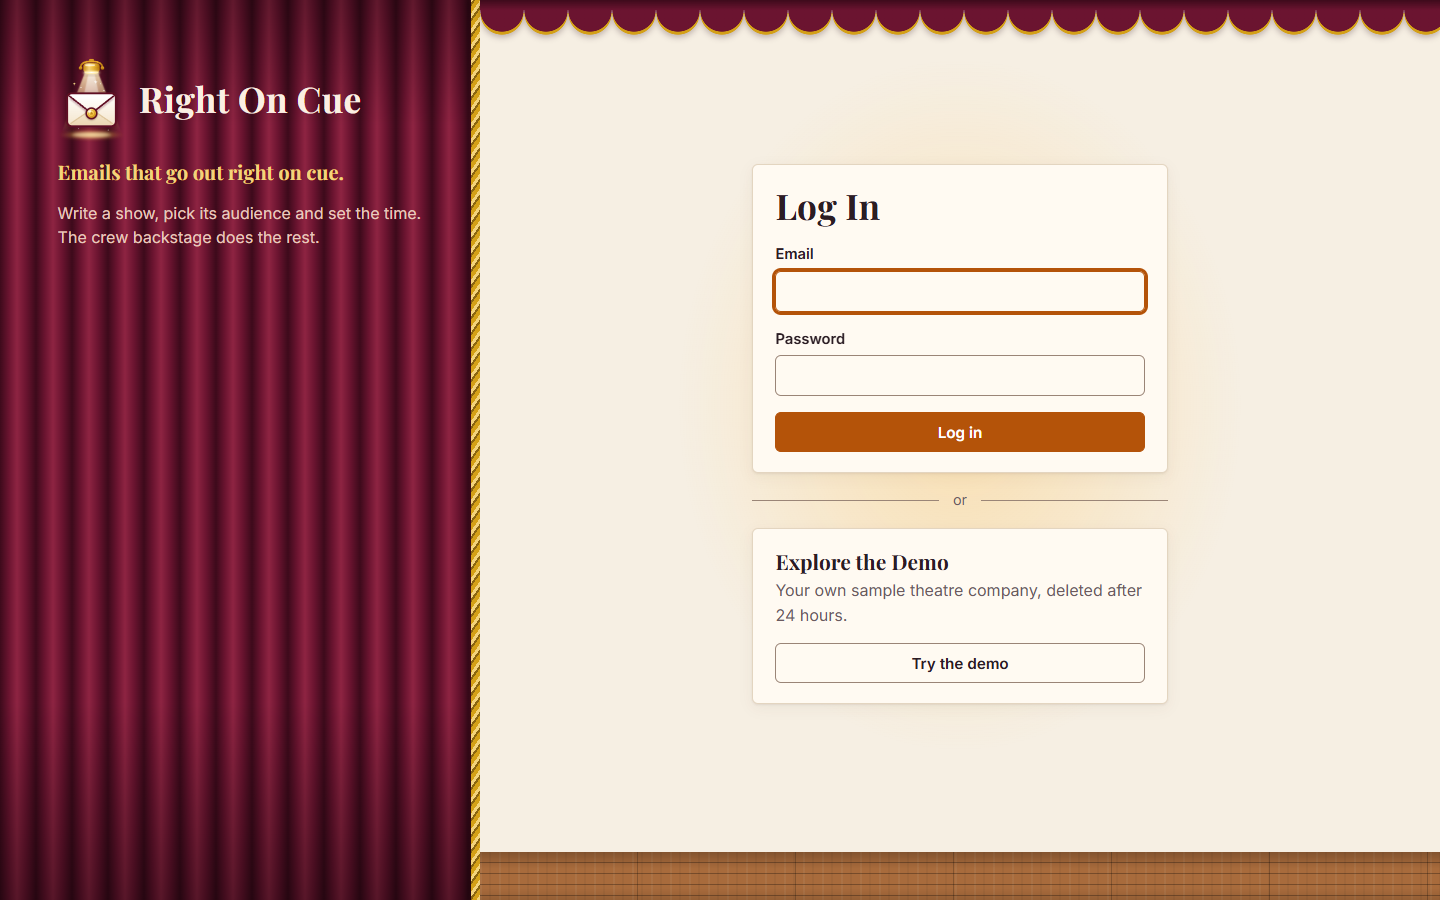
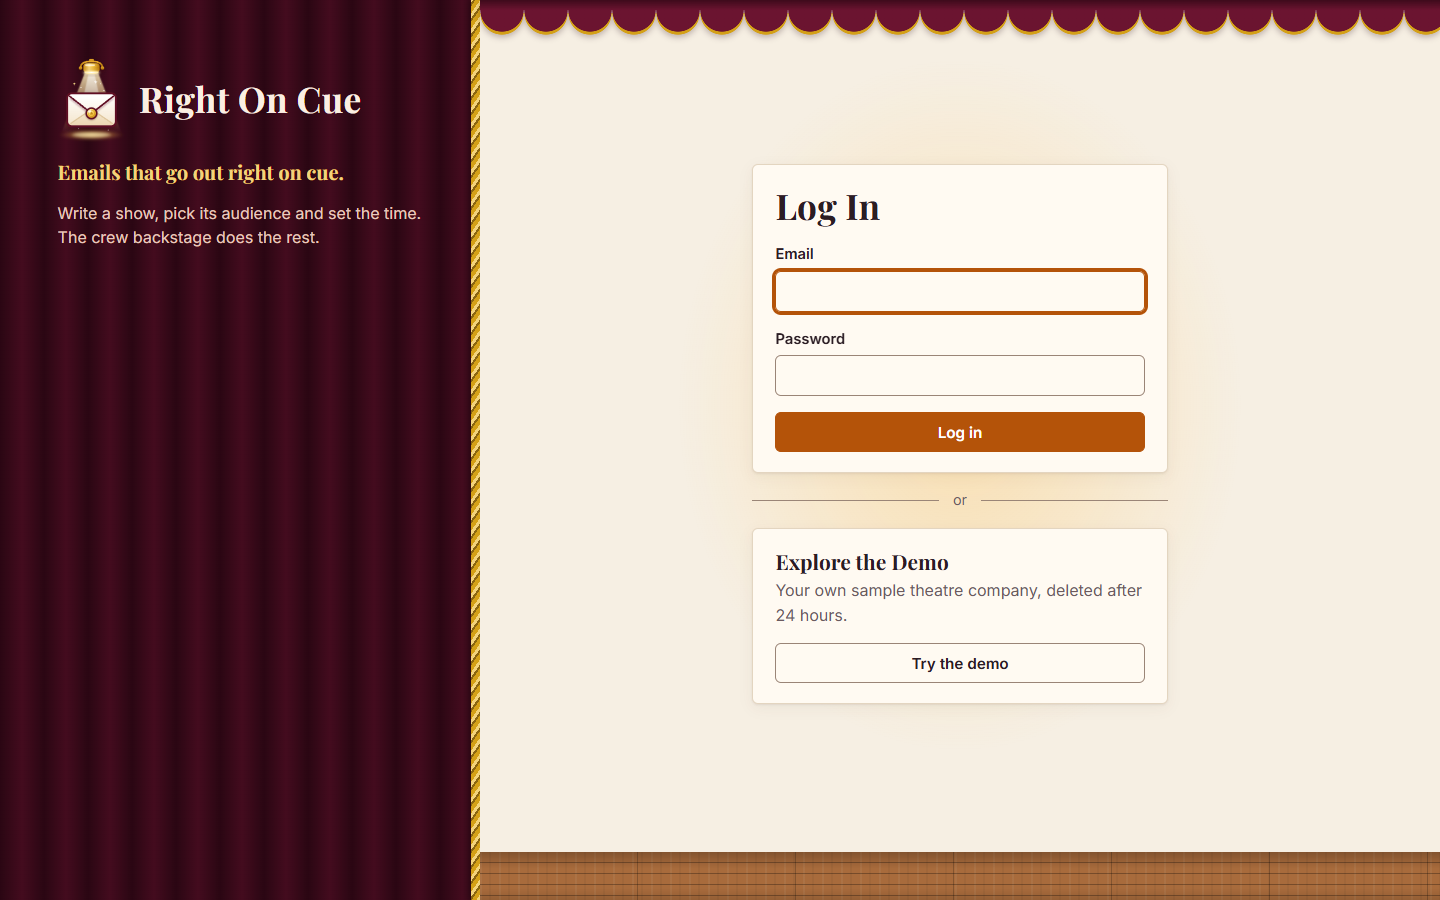
Give the login curtain the same quiet velvet
The login page's left panel now has the sidebar's wider, softer folds
under the dark veil, so its name, tagline and welcome line sit on an even
background too. README login picture retaken.

Changed region(s): [[0.0, 0.0, 0.3438, 1.0]]

diff --git a/oncue/static/style.css b/oncue/static/style.css
@@ -179,9 +179,9 @@ html:not(.js) .js-only { display: none !important; }
     repeating-linear-gradient(90deg, var(--velvet-deep) 0, var(--velvet) 9px, var(--velvet-light) 17px, var(--velvet) 26px, var(--velvet-deep) 36px);
   color: var(--velvet-ink);
 }
-/* The sidebar's curtain hangs in shadow: wider, softer folds under a dark veil, so the
-   menu's words sit on an even background instead of crossing bright and dark stripes. */
-.sidebar.velvet {
+/* The sidebar's and the login panel's curtain hangs in shadow: wider, softer folds under a
+   dark veil, so the words sit on an even background instead of crossing bright and dark stripes. */
+.sidebar.velvet, .welcome-panel.velvet {
   background-color: var(--velvet-deep);
   background-image:
     linear-gradient(0deg, var(--velvet-veil), var(--velvet-veil)),
